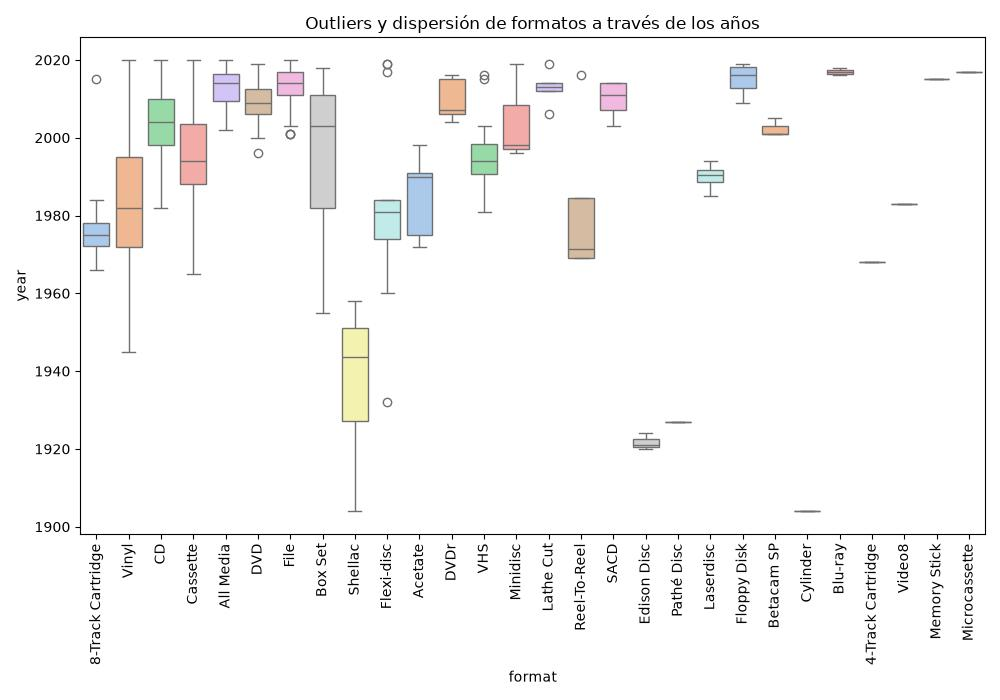
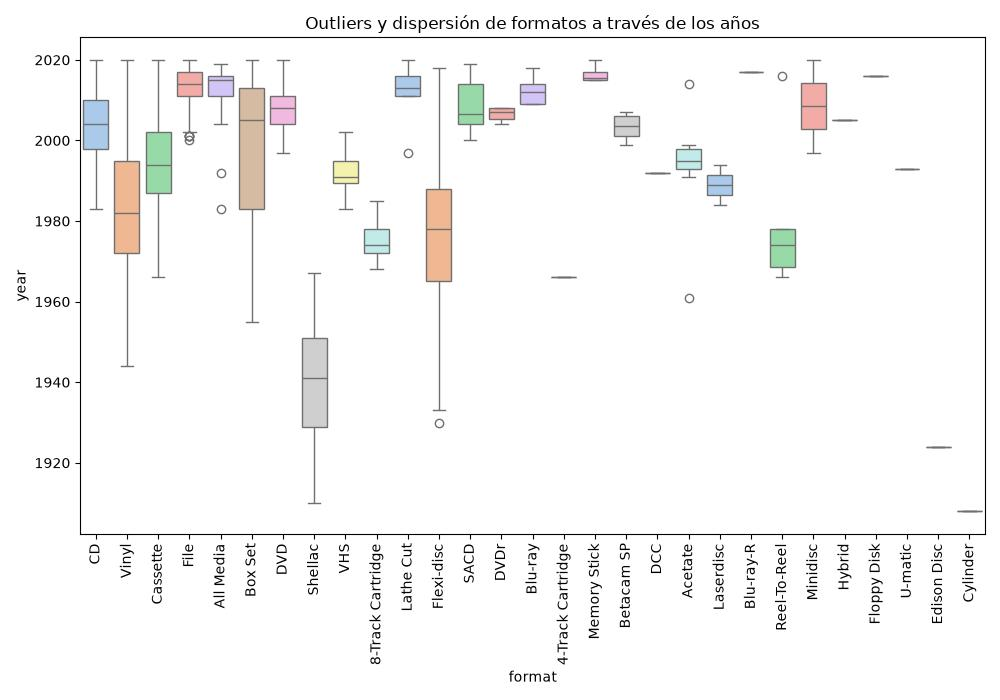
completando practica 3

diff --git a/main/practica_3/visualizacion.py b/main/practica_3/visualizacion.py
@@ -63,9 +63,11 @@ plt.title('Los 5 formatos con mayores lanzamientos a través de los años')
 plt.tight_layout()
 plt.savefig(os.path.join(dir_actual, "top5_formats_pie.jpg"))
 plt.close()
+
 #histogramas
 plt.figure(figsize=(12,5))
-sns.histplot(data=df, x='year', hue='genre', palette='pastel',multiple='stack', bins=30)
+sns.histplot(data=df, x='year', hue='genre', palette='bright',multiple='stack', bins=30)
+plt.ticklabel_format(style='plain', axis='y')
 plt.title('Lanzamientos por año, por género')
 plt.tight_layout()
 plt.savefig(os.path.join(dir_actual, "topgenres_peryear_histogram.jpg"))
